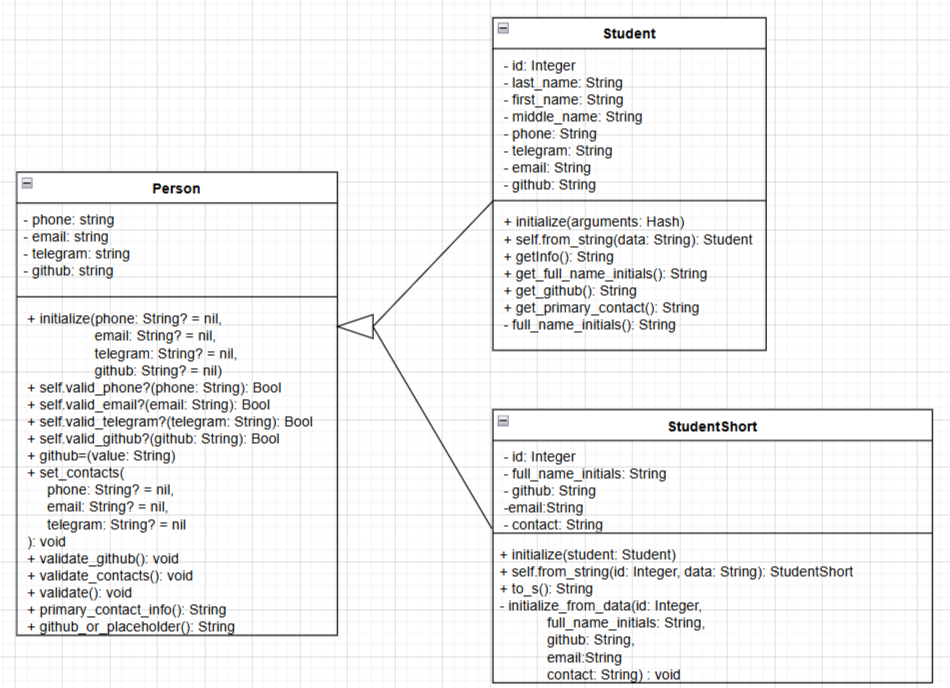
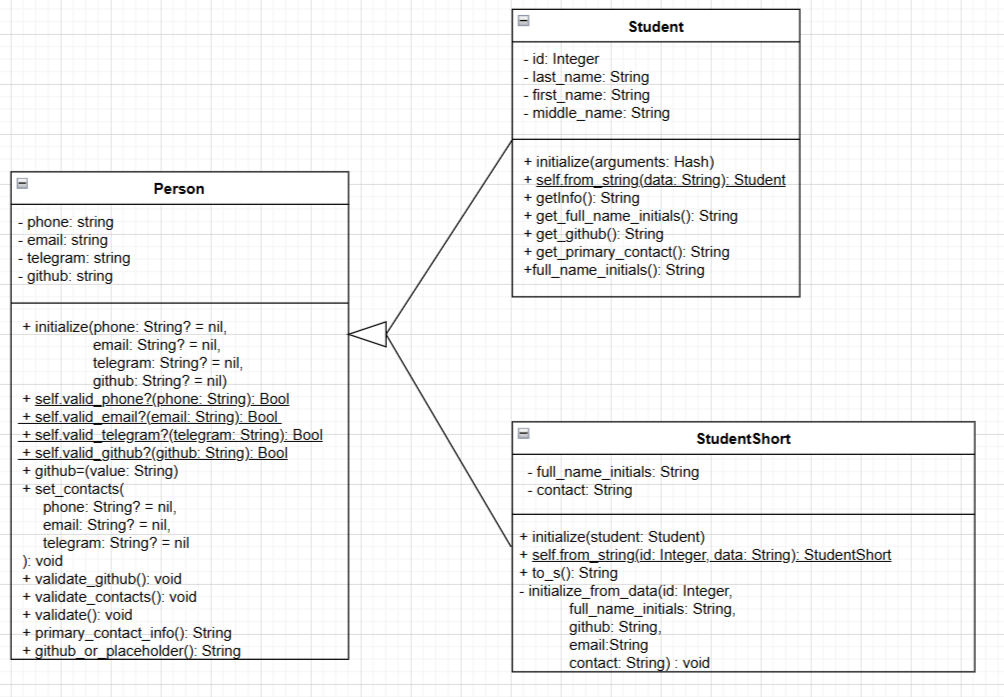
creating a folder  blocks_collections_trees

Changed region(s): [[0.0, 0.2442, 0.4579, 0.9462], [0.4579, 0.5799, 1.0, 1.0], [0.3968, 0.0, 0.8242, 0.5189]]

diff --git a/CoreClassAndModels/student_short.rb b/CoreClassAndModels/student_short.rb
@@ -1,8 +1,8 @@
 require_relative 'person'
 require_relative 'student'
 
-class StudentShort
-  attr_reader :id, :full_name_initials, :github, :email_info, :contact
+class StudentShort < Person
+  attr_reader :id, :full_name_initials, :github,  :contact
 
   # Конструктор 1: принимает объект класса Student
   def initialize(student)
@@ -10,9 +10,6 @@ class StudentShort
     @full_name_initials  = student.full_name_initials
     # Вместо github || 'не указан' используем метод из Person
     @github              = student.github_or_placeholder
-    @email_info = student.email ? student.email : 'не указана'
-
-
     # Вместо ручной логики — используем метод из Person
     @contact             = student.primary_contact_info
   end
@@ -23,25 +20,23 @@ class StudentShort
     raise ArgumentError, "Недостаточно данных для создания объекта Student" if fields.size < 2
 
     full_name_initials = fields[0]
-    github             = fields[1] || 'не указан'
-    email_info         = fields[2] || 'не указана'  
-    contact            = fields[3] || 'не указан'  
+    github             = fields[1] || 'не указан' 
+    contact            = fields[2] || 'не указан'  
 
     new_instance = allocate
-    new_instance.send(:initialize_from_data, id, full_name_initials, github, email_info, contact)
+    new_instance.send(:initialize_from_data, id, full_name_initials, github,  contact)
     new_instance
   end
 
   def to_s
-        "ID: #{id}, ФИО: #{full_name_initials}, Гит: #{github}, Почта: #{email_info}, Контакт: #{contact}"
+        "ID: #{id}, ФИО: #{full_name_initials}, Гит: #{github}, Контакт: #{contact}"
   end
 
   private
 
-  def initialize_from_data(id, full_name_initials, github, email_info, contact)
+  def initialize_from_data(id, full_name_initials, github,  contact)
     @id                  = id
     @full_name_initials  = full_name_initials
-    @email_info          =email_info
     @github              = github
     @contact             = contact
   end

diff --git a/blocks_collections_trees/main.rb b/blocks_collections_trees/main.rb
@@ -1,0 +1,46 @@
+# main.rb
+
+# Метод для подсчёта количества элементов массива array,которые попадают в интервал [a..b].
+def count_elements_in_interval(array, a, b)
+  array.count { |x| x >= a && x <= b }
+end
+
+# Метод, решающий задачу:
+# "Дан целочисленный массив и интервал [a..b].
+#  Найти количество элементов в этом интервале."
+  def solve_interval_task
+    puts "Введите размер массива:"
+    n = gets.to_i
+
+  puts "Введите #{n} целых чисел:"
+  # n.times.map { ... } не содержит явного цикла в виде for/while,
+  # но под капотом создаётся блок, итерирующийся n раз — это допустимо по условию.
+  array = n.times.map { gets.to_i }
+
+  puts "Введите границы интервала a и b:"
+  a = gets.to_i
+  b = gets.to_i
+
+  # Подсчёт количества элементов в интервале [a..b]
+  count_in_interval = count_elements_in_interval(array, a, b)
+
+  puts "Количество элементов в интервале [#{a}..#{b}] = #{count_in_interval}"
+end
+
+
+# Если задач больше, можно добавить дополнительные пункты меню.
+def main
+  puts "Выберите задачу:"
+  puts "1 - Найти количество элементов массива, попадающих в интервал [a..b]"
+  choice = gets.to_i
+
+  case choice
+  when 1
+    solve_interval_task
+  else
+    puts "Некорректный выбор задачи!"
+  end
+end
+
+# Запуск программы:
+main

diff --git a/CoreClassAndModels/student.rb b/CoreClassAndModels/student.rb
@@ -42,7 +42,7 @@ class Student < Person
   def getInfo
     email_info = email ? email : 'не указана'
 
-    "#{full_name_initials}, Гит: #{github_or_placeholder}, Почта: #{email_info}, Контакт: #{primary_contact_info}"
+    "ID #{id},ФИО: #{full_name_initials}, Гит: #{github_or_placeholder}, Почта: #{email_info}, Контакт: #{primary_contact_info}"
   end
 
   # Методы для получения отдельных значений без возможности изменения

diff --git a/CoreClassAndModels/main.rb b/CoreClassAndModels/main.rb
@@ -52,7 +52,7 @@ short1 = StudentShort.new(student1)
 puts short1.to_s
 
 # Создание объекта StudentShort через второй конструктор
-short2 = StudentShort.from_string(2, "Петров П. П., https://github.com/petrov,  +98765432100")
+short2 = StudentShort.from_string(2, "Петров П. П., https://github.com/petrov, petrov@mail.com, +98765432100")
 puts short2
 # Проверка отдельных значений
 puts "ФИО: #{student1.get_full_name_initials}"

diff --git a/CoreClassAndModels/person.rb b/CoreClassAndModels/person.rb
@@ -36,6 +36,7 @@ class Person
     end
   end
 
+
   # Метод для установки контактов
   def set_contacts(phone: nil, email: nil, telegram: nil)
     if phone && !Person.valid_phone?(phone)
@@ -77,7 +78,7 @@ class Person
   # Метод, возвращающий контакт в «человеческом» виде
   def primary_contact_info
     if phone
-      " #{phone}"
+      "контакт: #{phone}"
     elsif email
       "Почта: #{email}"
     elsif telegram
